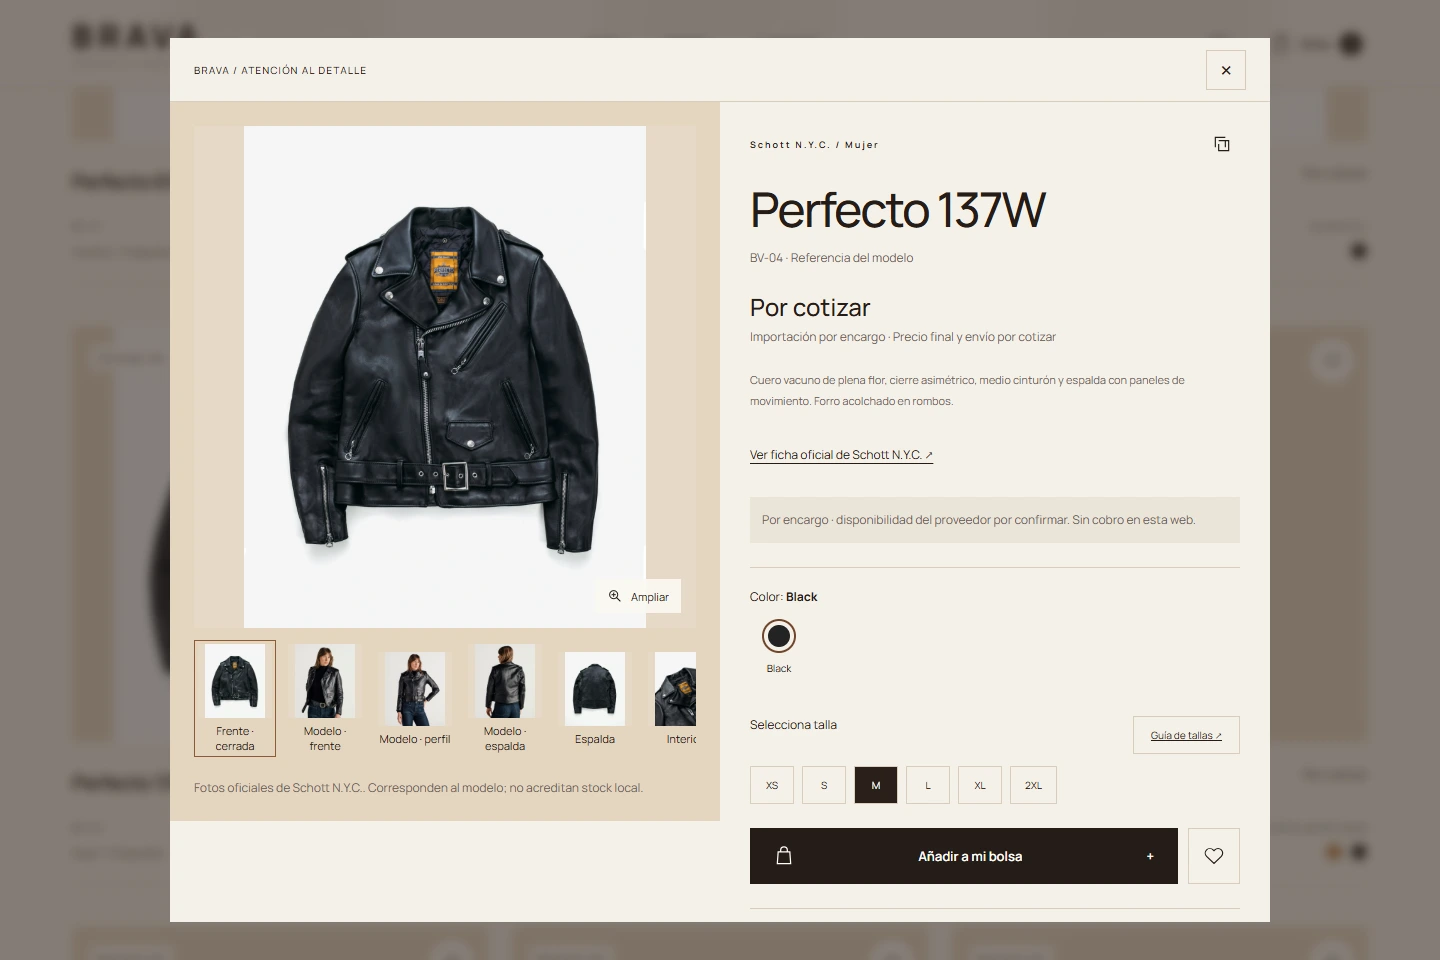
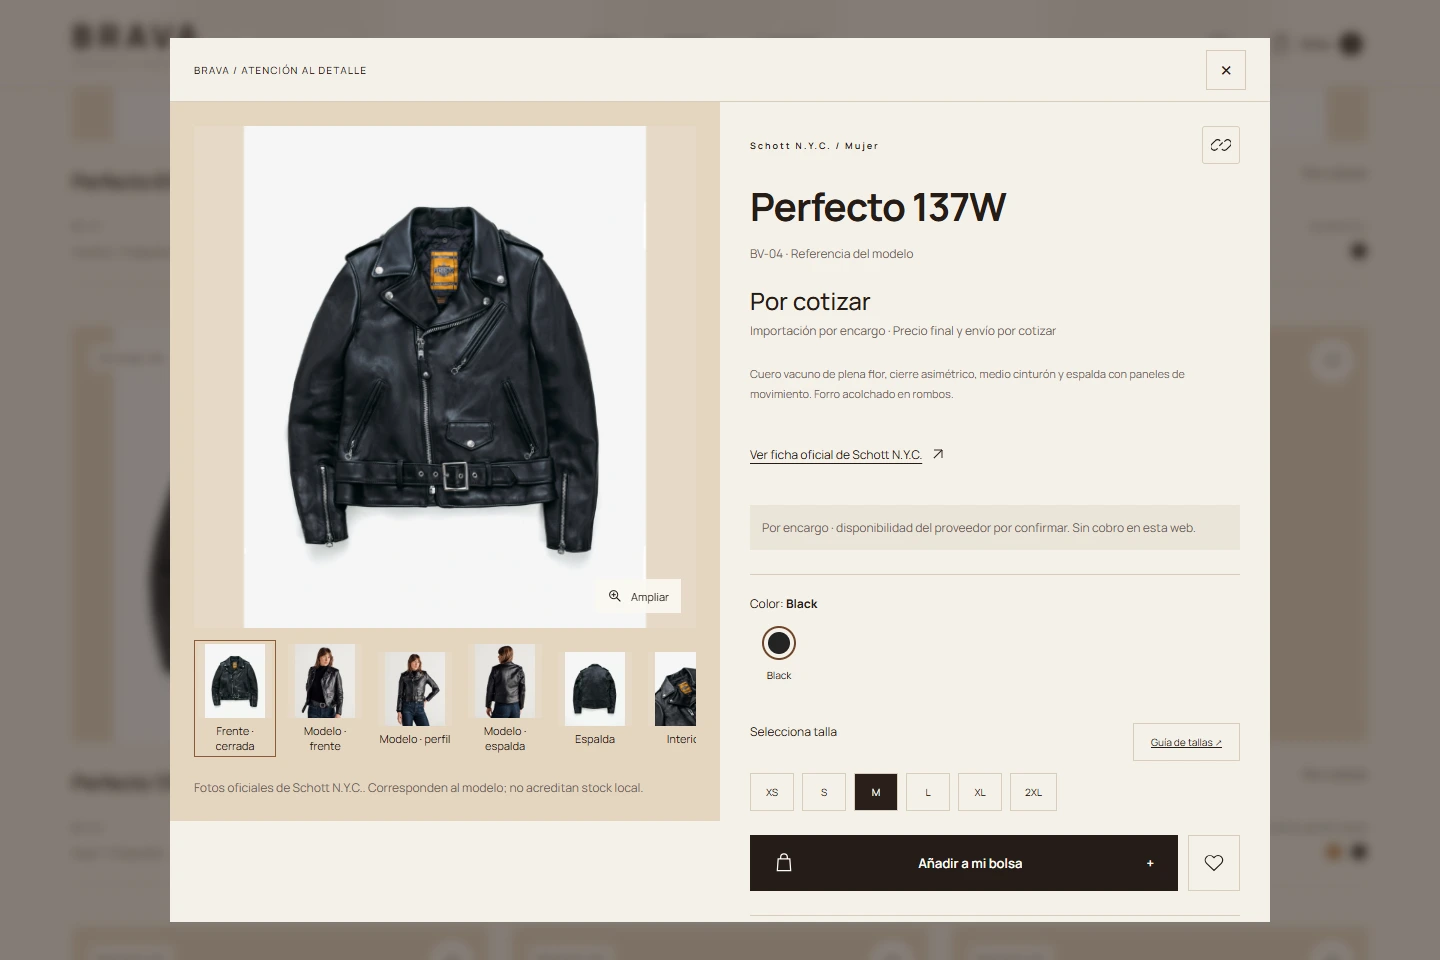
Unify biker typography and fix wishlist feedback, care layout and WhatsApp text

diff --git a/src/app/shop.html b/src/app/shop.html
@@ -46,7 +46,7 @@
         Elige tu pieza y encárgala desde Perú.
       </p>
       <button class="button button-light" (click)="explore()">
-        Explorar tienda <span>↗</span>
+        Explorar tienda <svg class="arrow-icon" aria-hidden="true" viewBox="0 0 24 24"><path d="M6 18 18 6M6 6h12v12" /></svg>
       </button>
       <div class="campaign-bottom">
         <span>BRAVA / LEATHER GOODS</span><span>SELECCIÓN POR ENCARGO</span>
@@ -185,7 +185,7 @@
       </article>
       }@empty{
       <div class="empty-state">
-        <span>↗</span>
+        <svg class="arrow-icon" aria-hidden="true" viewBox="0 0 24 24"><path d="M6 18 18 6M6 6h12v12" /></svg>
         <h3>Encuentra tu próxima pieza.</h3>
         <p>
           Prueba con otro nombre, color o categoría.
@@ -220,7 +220,7 @@
         Conoce el tipo de cuero, el ajuste y los cuidados antes de elegir. Una pieza bien elegida empieza por saber qué estás comprando.
       </p>
       <button class="text-link" (click)="panel.set('care')">
-        Cómo cuidar tus piezas <span>↗</span>
+        Cómo cuidar tus piezas <svg class="arrow-icon" aria-hidden="true" viewBox="0 0 24 24"><path d="M6 18 18 6M6 6h12v12" /></svg>
       </button>
       <div class="craft-signature">
         BRAVA <span>Hecho para acompañarte.</span>
@@ -256,9 +256,9 @@
     </button>
   </div>
   <nav class="menu-content" aria-label="Navegación móvil">
-    <a href="#home" (click)="navigate()"><small>01</small><span>Inicio</span><b>↗</b></a>
-    <a href="#collection" (click)="navigate()"><small>02</small><span>Tienda</span><b>↗</b></a>
-    <a href="#craft" (click)="navigate()"><small>03</small><span>La esencia</span><b>↗</b></a>
+    <a href="#home" (click)="navigate()"><small>01</small><span>Inicio</span><svg class="arrow-icon" aria-hidden="true" viewBox="0 0 24 24"><path d="M6 18 18 6M6 6h12v12" /></svg></a>
+    <a href="#collection" (click)="navigate()"><small>02</small><span>Tienda</span><svg class="arrow-icon" aria-hidden="true" viewBox="0 0 24 24"><path d="M6 18 18 6M6 6h12v12" /></svg></a>
+    <a href="#craft" (click)="navigate()"><small>03</small><span>La esencia</span><svg class="arrow-icon" aria-hidden="true" viewBox="0 0 24 24"><path d="M6 18 18 6M6 6h12v12" /></svg></a>
   </nav>
   <div class="menu-signature">CUERO QUE DEJA HUELLA.<span>BRAVA / LEATHER GOODS</span></div>
 </section>
@@ -269,6 +269,7 @@
 <section
   class="modal"
   [class.product-modal]="panel()==='product'"
+  [class.care-modal]="panel()==='care'"
   [class.zoom-modal]="panel()==='zoom'"
   [class.legal-modal]="panel()==='legal' || panel()==='size'"
   role="dialog"
@@ -286,8 +287,8 @@
   <div class="bag-heading"><span class="eyebrow">PARA VOLVER A ELLAS</span><h2>Tus guardados <span>({{savedProducts().length}})</span></h2><p class="saved-intro">Las piezas que te gustan, en un solo lugar. Guardarlas no las añade a tu bolsa.</p></div>
   <div class="saved-list">
     @for(p of savedProducts();track p.id){
-      <article class="saved-item"><button class="saved-image" (click)="open(p)" [attr.aria-label]="'Ver detalles de '+p.name"><img [src]="store.imageUrl(p)" [alt]="p.name" width="140" height="160" /></button><div><small>{{p.brand}} · {{p.sku}}</small><button class="saved-title" (click)="open(p)">{{p.name}} <span>↗</span></button><p>{{p.category}} · {{store.money(p.price)}}</p></div><button class="icon-button" (click)="store.favorite(p.id)" [attr.aria-label]="'Quitar de guardados '+p.name"><svg aria-hidden="true" viewBox="0 0 24 24"><path d="m6 6 12 12M18 6 6 18" /></svg></button></article>
-    }@empty{<div class="empty-state"><span>♡</span><h3>Aquí van tus favoritos.</h3><p>Toca el corazón de una pieza para guardarla. Tu tienda seguirá tal como la dejaste.</p><button class="button" (click)="close()">Volver a explorar <span>↗</span></button></div>}
+      <article class="saved-item"><button class="saved-image" (click)="open(p)" [attr.aria-label]="'Ver detalles de '+p.name"><img [src]="store.imageUrl(p)" [alt]="p.name" width="140" height="160" /></button><div><small>{{p.brand}} · {{p.sku}}</small><button class="saved-title" (click)="open(p)">{{p.name}} <svg class="arrow-icon" aria-hidden="true" viewBox="0 0 24 24"><path d="M6 18 18 6M6 6h12v12" /></svg></button><p>{{p.category}} · {{store.money(p.price)}}</p></div><button class="icon-button" (click)="store.favorite(p.id)" [attr.aria-label]="'Quitar de guardados '+p.name"><svg aria-hidden="true" viewBox="0 0 24 24"><path d="m6 6 12 12M18 6 6 18" /></svg></button></article>
+    }@empty{<div class="empty-state"><span>♡</span><h3>Aquí van tus favoritos.</h3><p>Toca el corazón de una pieza para guardarla. Tu tienda seguirá tal como la dejaste.</p><button class="button" (click)="close()">Volver a explorar <svg class="arrow-icon" aria-hidden="true" viewBox="0 0 24 24"><path d="M6 18 18 6M6 6h12v12" /></svg></button></div>}
   </div>
   }
   @if(panel()==='cart'){
@@ -435,7 +436,7 @@
         aria-label="Copiar enlace del producto"
       >
         <svg aria-hidden="true" viewBox="0 0 24 24">
-          <path d="M8 12v8h12V8h-8M4 16V4h12M8 8h8v8" />
+          <path d="m10 13 4-4M8 16l-1 1a4 4 0 0 1-6-6l4-4a4 4 0 0 1 6 0M16 8l1-1a4 4 0 0 1 6 6l-4 4a4 4 0 0 1-6 0" />
         </svg>
       </button>
     </div>
@@ -446,7 +447,7 @@
         >Importación por encargo · Precio final y envío por cotizar</span
       >
     </div>
-    <p>{{p.description}}</p><a class="source-link" [href]="p.sourceUrl" target="_blank" rel="noopener noreferrer">Ver ficha oficial de {{p.brand}} ↗</a><p class="availability-note">Por encargo · disponibilidad del proveedor por confirmar. Sin cobro en esta web.</p>
+    <p>{{p.description}}</p><a class="source-link" [href]="p.sourceUrl" target="_blank" rel="noopener noreferrer">Ver ficha oficial de {{p.brand}} <svg class="arrow-icon" aria-hidden="true" viewBox="0 0 24 24"><path d="M6 18 18 6M6 6h12v12" /></svg></a><p class="availability-note">Por encargo · disponibilidad del proveedor por confirmar. Sin cobro en esta web.</p>
     <div class="color-selector">
       <span>Color: <strong>{{color()}}</strong></span>
       <div>
@@ -485,6 +486,7 @@
         >{{size()?'Añadir a mi bolsa':'Elige una talla'}}<span>+</span></button
       ><button
         class="detail-wishlist icon-button"
+        [attr.aria-pressed]="store.favorites().includes(p.id)"
         [class.saved]="store.favorites().includes(p.id)"
         (click)="store.favorite(p.id)"
         [attr.aria-label]="store.favorites().includes(p.id)?'Quitar de favoritos':'Guardar favorito'"
@@ -515,8 +517,8 @@
           Envíos en Perú por Olva o Shalom, sujetos a cobertura. Tarifa según
           destino y paquete, confirmada antes del pago.
         </p>
-        <button (click)="legalPage('shipping')">Consultar envíos ↗</button
-        ><button (click)="legalPage('returns')">Cambios y devoluciones ↗</button
+        <button (click)="legalPage('shipping')">Consultar envíos <svg class="arrow-icon" aria-hidden="true" viewBox="0 0 24 24"><path d="M6 18 18 6M6 6h12v12" /></svg></button
+        ><button (click)="legalPage('returns')">Cambios y devoluciones <svg class="arrow-icon" aria-hidden="true" viewBox="0 0 24 24"><path d="M6 18 18 6M6 6h12v12" /></svg></button
         >}@else{
         <p>
           Evita humedad y calor directo. Confirma el tipo de cuero y las
@@ -675,7 +677,7 @@
       <span>0{{i+1}}</span>
       <p>{{tip}}</p>
     </div>
-    }<button class="button" (click)="legalPage('faq')">Abrir centro de ayuda <span>↗</span></button>
+    }<button class="button" (click)="legalPage('faq')">Abrir centro de ayuda <svg class="arrow-icon" aria-hidden="true" viewBox="0 0 24 24"><path d="M6 18 18 6M6 6h12v12" /></svg></button>
   </div>
   }
 </section>

diff --git a/src/design-system.css b/src/design-system.css
@@ -88,3 +88,32 @@ footer { background:var(--espresso); color:#f5eadd; padding-top:55px; }
  .saved-item { gap:12px; grid-template-columns:80px minmax(0,1fr) 44px; } .saved-image img { width:80px; height:100px; }
 }
 @media(prefers-reduced-motion:reduce) { html { scroll-behavior:auto; } *,*::before,*::after { animation:none!important; transition:none!important; } }
+
+/* One type family and a restrained biker direction across every surface. */
+:root { --saddle:#242321; --copper:#815333; }
+body,button,input,h1,h2,h3,.menu-content > a,.care-content h2,.footer-seal { font-family:"Manrope",sans-serif; }
+h1,h2,.detail-info h2,.care-content h2 { font-weight:700; }
+.campaign h1 { font-size:clamp(44px,4.8vw,72px); letter-spacing:-3px; line-height:1.08; }
+.campaign h1 em,.craft-copy h2 em { font-style:normal; font-weight:700; }
+.campaign-copy { background:radial-gradient(ellipse at 15% 10%,#65513c40,transparent 70%),#242321; }
+.detail-info h2 { font-size:clamp(26px,2.7vw,40px); line-height:1.2; letter-spacing:-1px; margin:20px 0 12px; overflow-wrap:anywhere; }
+.detail-kicker { align-items:center; gap:20px; }
+.detail-kicker > .icon-button { flex-shrink:0; border:1px solid var(--line); border-radius:3px; }
+.detail-price { margin:20px 0; font-size:24px; }
+.detail-info > p { line-height:1.8; }
+.source-link { display:inline-flex; align-items:center; gap:8px; font-size:12px; margin:18px 0; }
+.arrow-icon { width:16px; height:16px; flex-shrink:0; vertical-align:middle; }
+.menu-content > a > .arrow-icon { margin-left:auto; width:26px; height:26px; }
+.accordion-content > button { display:inline-flex; align-items:center; gap:8px; padding:12px 0; margin-right:24px; min-height:44px; text-align:left; }
+.detail-wishlist.saved,.save-button.saved { background:#815333; color:#fffdf8; border-color:#815333; }
+.detail-wishlist.saved:hover,.save-button.saved:hover { color:#fffdf8; background:#674029; }
+.detail-wishlist.saved svg,.save-button.saved svg { fill:currentColor; stroke:currentColor; }
+.favorite-nav.is-active svg { fill:#815333; stroke:#815333; }
+.detail-wishlist { transition:background-color .15s,color .15s; }
+.care-content { padding:32px; }
+.care-content h2 { font-size:32px; line-height:1.25; letter-spacing:-1px; }
+.care-tip { gap:20px; align-items:flex-start; }
+.care-tip span { padding-top:4px; flex-shrink:0; }
+.care-tip p,.care-content > p { font-size:13px; }
+.care-content > .button { width:100%; }
+@media(max-width:760px) { .campaign h1 { font-size:clamp(37px,10vw,58px); letter-spacing:-1.5px; } .detail-info h2 { font-size:28px; } .care-content { padding:28px 24px; } .care-content h2 { font-size:28px; } }

diff --git a/src/styles.css b/src/styles.css
@@ -1,4 +1,4 @@
-@import url("https://fonts.googleapis.com/css2?family=DM+Sans:wght@400;500;600;700&family=Manrope:wght@400;500;600;700;800&family=Playfair+Display:ital,wght@0,500;0,600;1,500&display=swap");
+@import url("https://fonts.googleapis.com/css2?family=Manrope:wght@400;500;600;700;800&display=swap");
 :root {
   --canvas: #faf7f2;
   --espresso: #2c211c;
@@ -175,7 +175,7 @@ a:hover {
   border-radius: 50%;
 }
 h1 {
-  font-family: "Playfair Display", Georgia, serif;
+  font-family: "Manrope", sans-serif;
   font-size: clamp(52px, 5.4vw, 86px);
   font-weight: 500;
   line-height: 1.1;
@@ -615,9 +615,8 @@ h1 em {
 }
 .craft-copy h2 {
   font:
-    500 48px/1.18 "Playfair Display",
-    Georgia,
-    serif;
+    500 48px/1.18 "Manrope",
+    sans-serif;
   letter-spacing: -1px;
   margin: 27px 0 23px;
 }
@@ -649,9 +648,8 @@ h1 em {
   font-weight: 400;
   letter-spacing: 0;
   font:
-    italic 14px "Playfair Display",
-    Georgia,
-    serif;
+    italic 14px "Manrope",
+    sans-serif;
   display: block;
   margin-top: 8px;
 }
@@ -916,9 +914,8 @@ footer {
 }
 .empty-state h3 {
   font:
-    26px "Playfair Display",
-    Georgia,
-    serif;
+    26px "Manrope",
+    sans-serif;
   margin: 20px 0 12px;
 }
 .empty-state p {
@@ -1065,9 +1062,8 @@ footer {
 }
 .care-content h2 {
   font:
-    42px/1.2 "Playfair Display",
-    Georgia,
-    serif;
+    42px/1.2 "Manrope",
+    sans-serif;
   margin: 25px 0;
 }
 .care-content > p {

diff --git a/src/app/core/commerce.store.ts b/src/app/core/commerce.store.ts
@@ -36,17 +36,17 @@ export class CommerceStore {
    Variante: ${variant?.supplierVariant ?? 'Por confirmar'}`;
     });
     const destination = this.destination().replace(/[\r\n]/g, ' ').trim().slice(0,100) || 'Por indicar';
-    const text = `🛍 BRAVA | SOLICITUD DE COMPRA
+    const text = `BRAVA | SOLICITUD DE COMPRA
 Referencia: ${this.orderReference}
 
-📦 ARTÍCULOS (${this.count()} unidades)
+ARTÍCULOS (${this.count()} unidades)
 ${lines.join('\n\n')}
 
-🚚 ENTREGA EN PERÚ
+ENTREGA EN PERÚ
 Ciudad / distrito: ${destination}
 Transporte: ${this.carrier()}
 
-💬 Solicito cotización final en soles o dólares, disponibilidad y plazo de importación / entrega para esta selección. Incluir envío, condiciones de cambios y medios de pago antes de confirmar.
+Solicito cotización final en soles o dólares, disponibilidad y plazo de importación / entrega para esta selección. Incluir envío, condiciones de cambios y medios de pago antes de confirmar.
 
 Esta solicitud no reserva productos ni acredita un pago.`;
     return `https://wa.me/${STORE.phone}?text=${encodeURIComponent(text)}`;

diff --git a/DESIGN-SYSTEM.md b/DESIGN-SYSTEM.md
@@ -13,7 +13,7 @@ No hay una colección LIVE paralela. Los códigos BV siguen identificando produc
 
 ## Identidad visual
 
-Cuero silla de montar `#79482f`, espresso `#241c17`, tiza `#f5f1e8` y latón `#b99a62`. Playfair Display para titulares editoriales; Manrope para lectura y controles. Costuras discontinuas y textura discreta hacen referencia al material sin competir con las fotografías oficiales.
+Cuero silla de montar `#79482f`, espresso `#241c17`, tiza `#f5f1e8` y latón `#b99a62`. Manrope como única familia para titulares, lectura y controles, con jerarquía por tamaño y peso. Costuras discontinuas y textura discreta hacen referencia al material sin competir con las fotografías oficiales.
 
 `src/design-system.css` concentra los tokens y la composición de esta dirección visual. `src/styles.css` mantiene los componentes de ficha, zoom y bolsa. Sin dependencias adicionales para el rediseño.
 
@@ -33,3 +33,7 @@ Una confirmación visible al añadir a bolsa; sin segundo aviso redundante. Vari
 ## Comprobación
 
 Probado en navegador a 320, 390, 768 y 1440 px: sin desbordamiento horizontal; guardados independientes, persistencia y estado vacío; menú de tres enlaces; variantes, zoom y confirmación única de bolsa. Compilación para `/Brava/`, CSP y verificación de 12 modelos y 82 fotografías conservadas.
+
+## Refinamiento de ficha
+
+Organización inspirada en la ficha oficial de [Schott 141](https://www.schottnyc.com/products/141-classic-racer-leather-motorcycle-jacket): galería, modelo, variantes, acción de bolsa y especificaciones. Corazones rellenos y fondo contrastado al guardar, iconos SVG coherentes, cuidados con margen interior y mensaje comercial sin emojis para evitar caracteres rotos en clientes de WhatsApp.

diff --git a/VALIDATION.md b/VALIDATION.md
@@ -29,3 +29,5 @@ La calculadora interna, excluida del build, mantiene los escenarios previamente 
 ## Rediseño de navegación
 
 Guardados conservan búsqueda y categoría. Persistencia, retirada y estado vacío comprobados. Menú móvil de tres enlaces sin filtros ni políticas. Navegador a 320, 390, 768 y 1440 px sin desbordamiento; confirmación de bolsa sin aviso duplicado. Capturas y GIF del README actualizados.
+
+Refinamiento: comprobados guardar/quitar desde la ficha (aria-pressed, relleno y fondo), copiar enlace, margen de cuidados en escritorio, pedido decodificado con BV-03/talla S sin emojis ni caracteres de reemplazo, y adaptación entre 320 y 1440 px.
